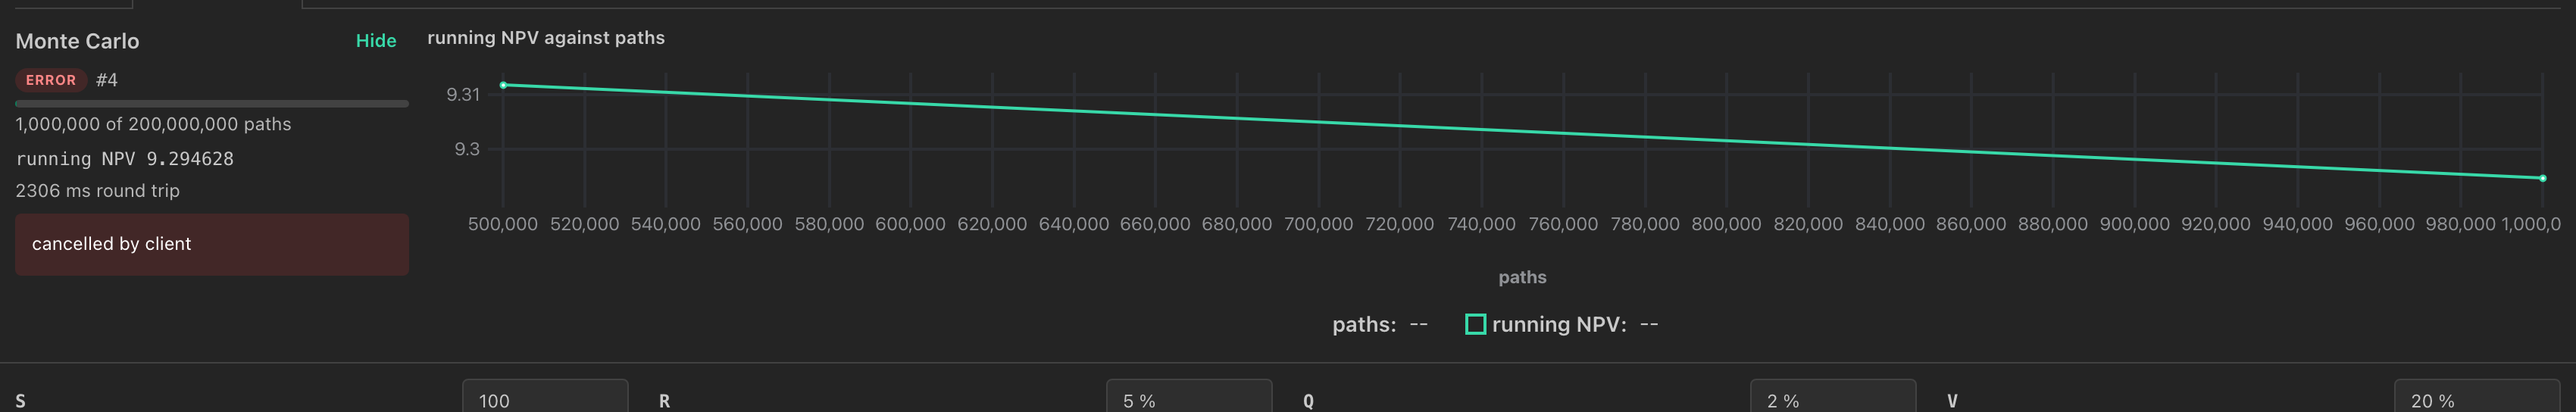
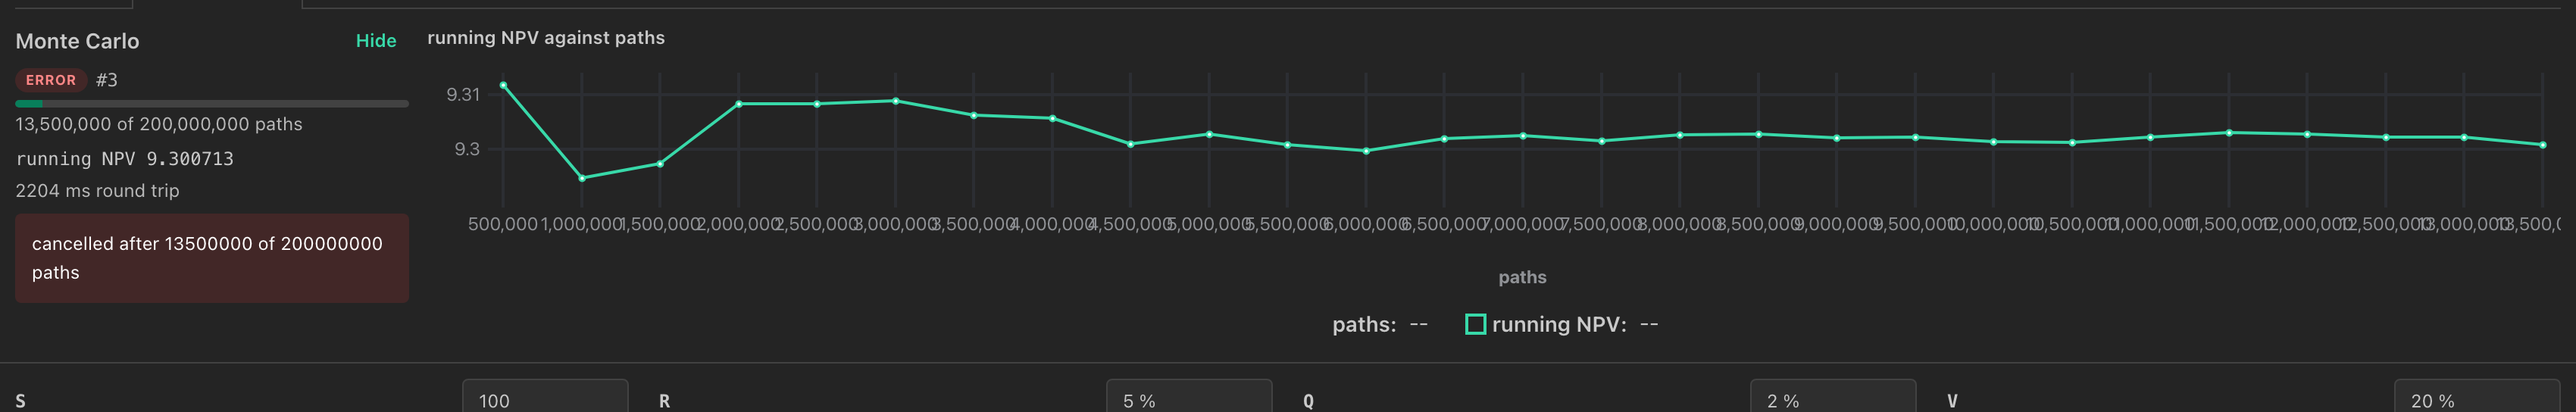
Retake the cancelled run as the one its caption describes
The cancelled Monte Carlo figure's caption says the run stopped at a batch
boundary two seconds in and the session stayed live, and the screenshot
showed something else: "cancelled by client", which is the message for a
request the service has to kill. It had been captured by cancelling from the
status bar with two identical runs queued, because opening a session prices
the trade and the capture then pressed Price as well; the one on screen was
the queued run, which never reached a batch boundary.

It is retaken as a single run, the one the session opens with, cancelled from
the panel's own Cancel button two seconds after its first progress frame. The
service answered in 140 ms by stopping at the next batch boundary, the panel
reads "cancelled after 13500000 of 200000000 paths", and the session stayed
live under the same id. The alt text follows the new capture, in the page
and in the zh_TW catalogue; the caption was already true of it.

Claude-Session: https://claude.ai/code/session_01MJtVZSjTSgWshw7miPwQ9g

diff --git a/doc/studies.md b/doc/studies.md
@@ -160,7 +160,7 @@ the quote restored. A cancelled batched Monte Carlo says "cancelled after
 200000 of 20000000 paths".
 
 ```{figure} images/studies-cancelled.png
-:alt: The Monte Carlo panel after a cancel: the badge reads error, the counter reads 1,000,000 of 200,000,000 paths at 2306 ms round trip, a red box says "cancelled by client", and the partial convergence trace is still drawn beside it.
+:alt: The Monte Carlo panel after a cancel: the badge reads error, the counter reads 13,500,000 of 200,000,000 paths at 2204 ms round trip, a red box says "cancelled after 13500000 of 200000000 paths", and the partial convergence trace is still drawn beside it.
 :width: 100%
 
 The cheap kind of cancel, two seconds into a two-hundred-million-path run. The
